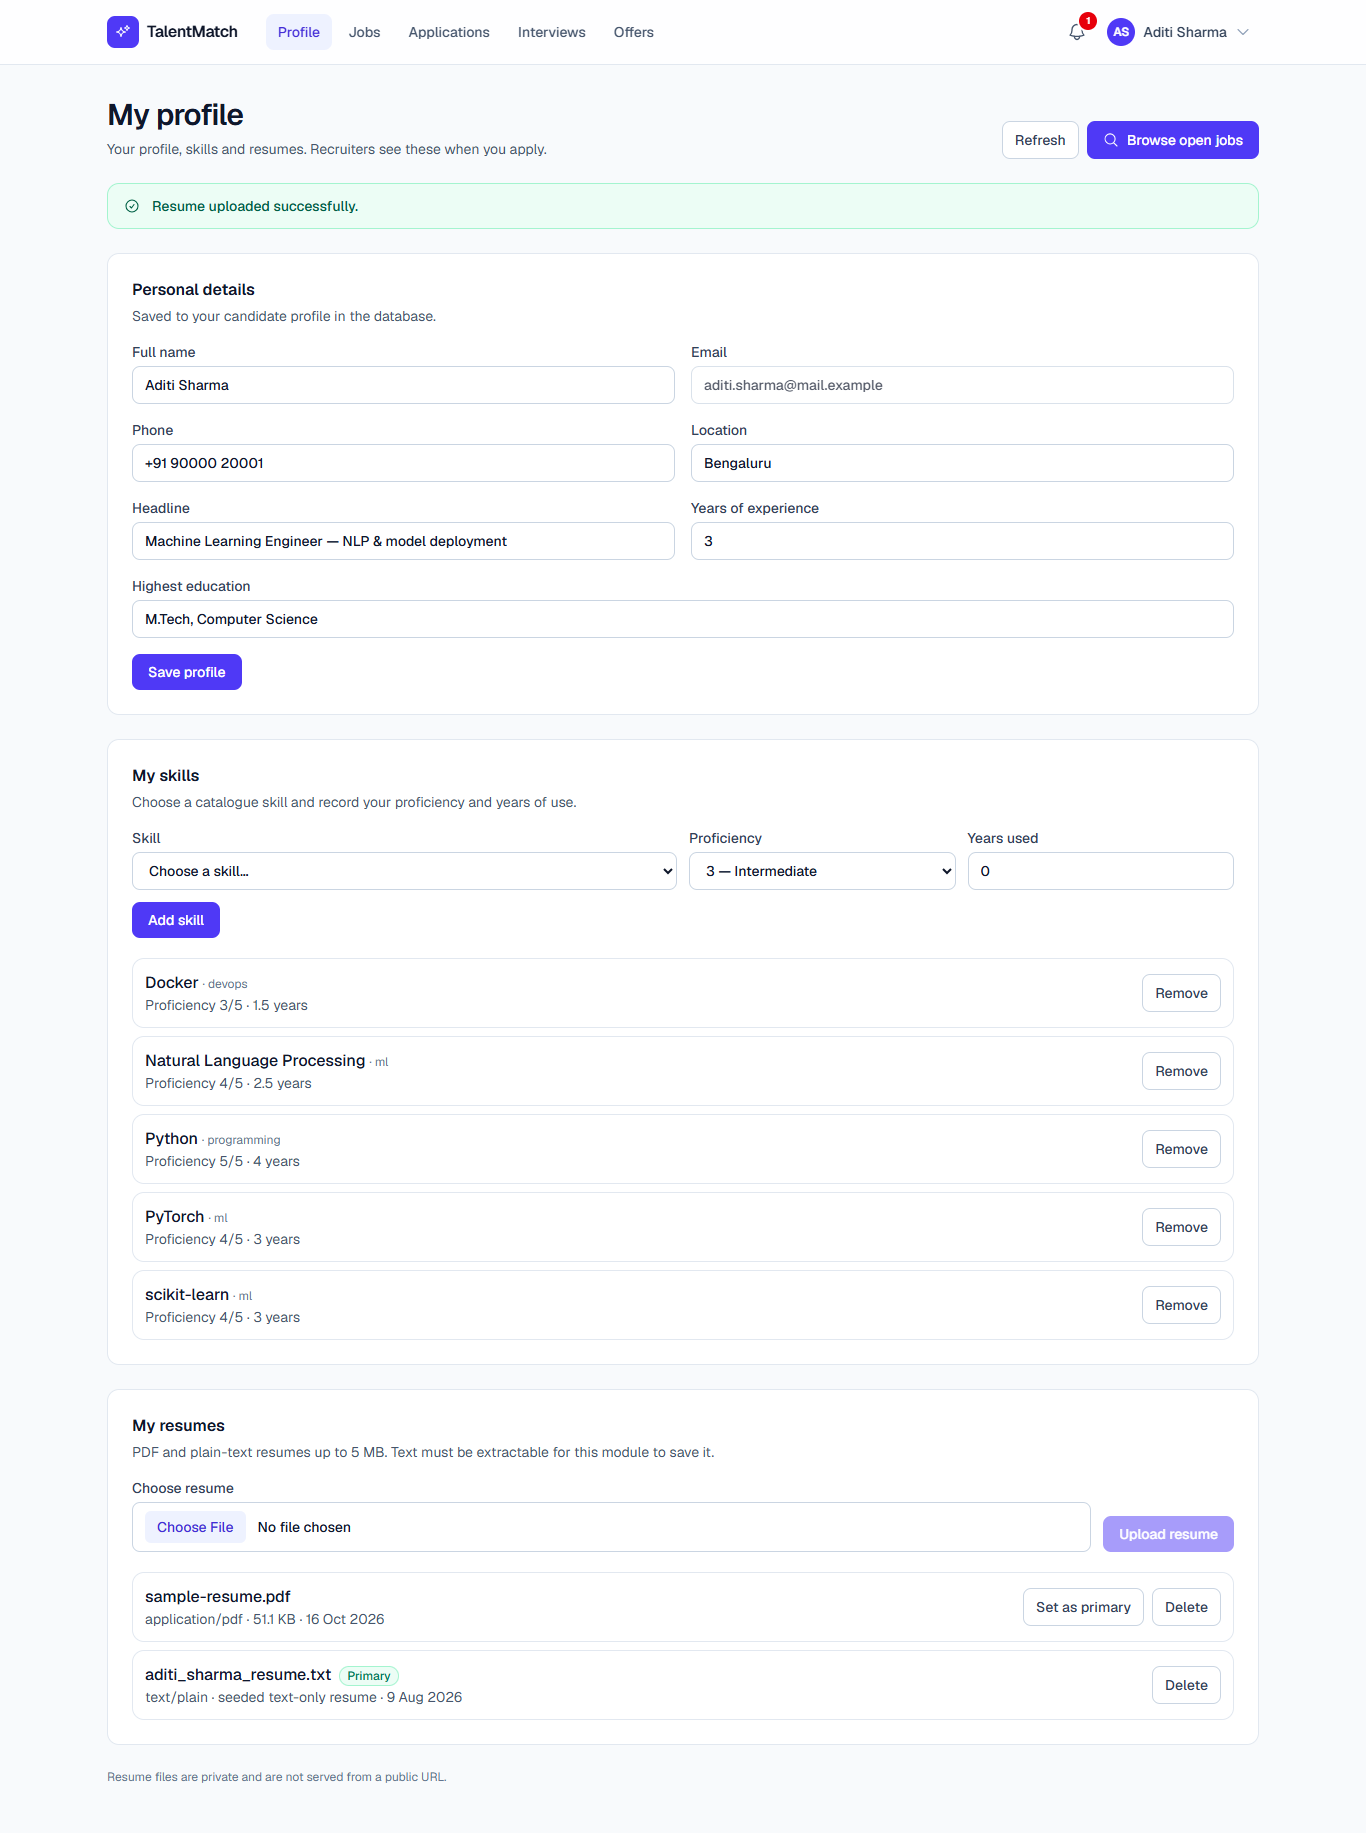
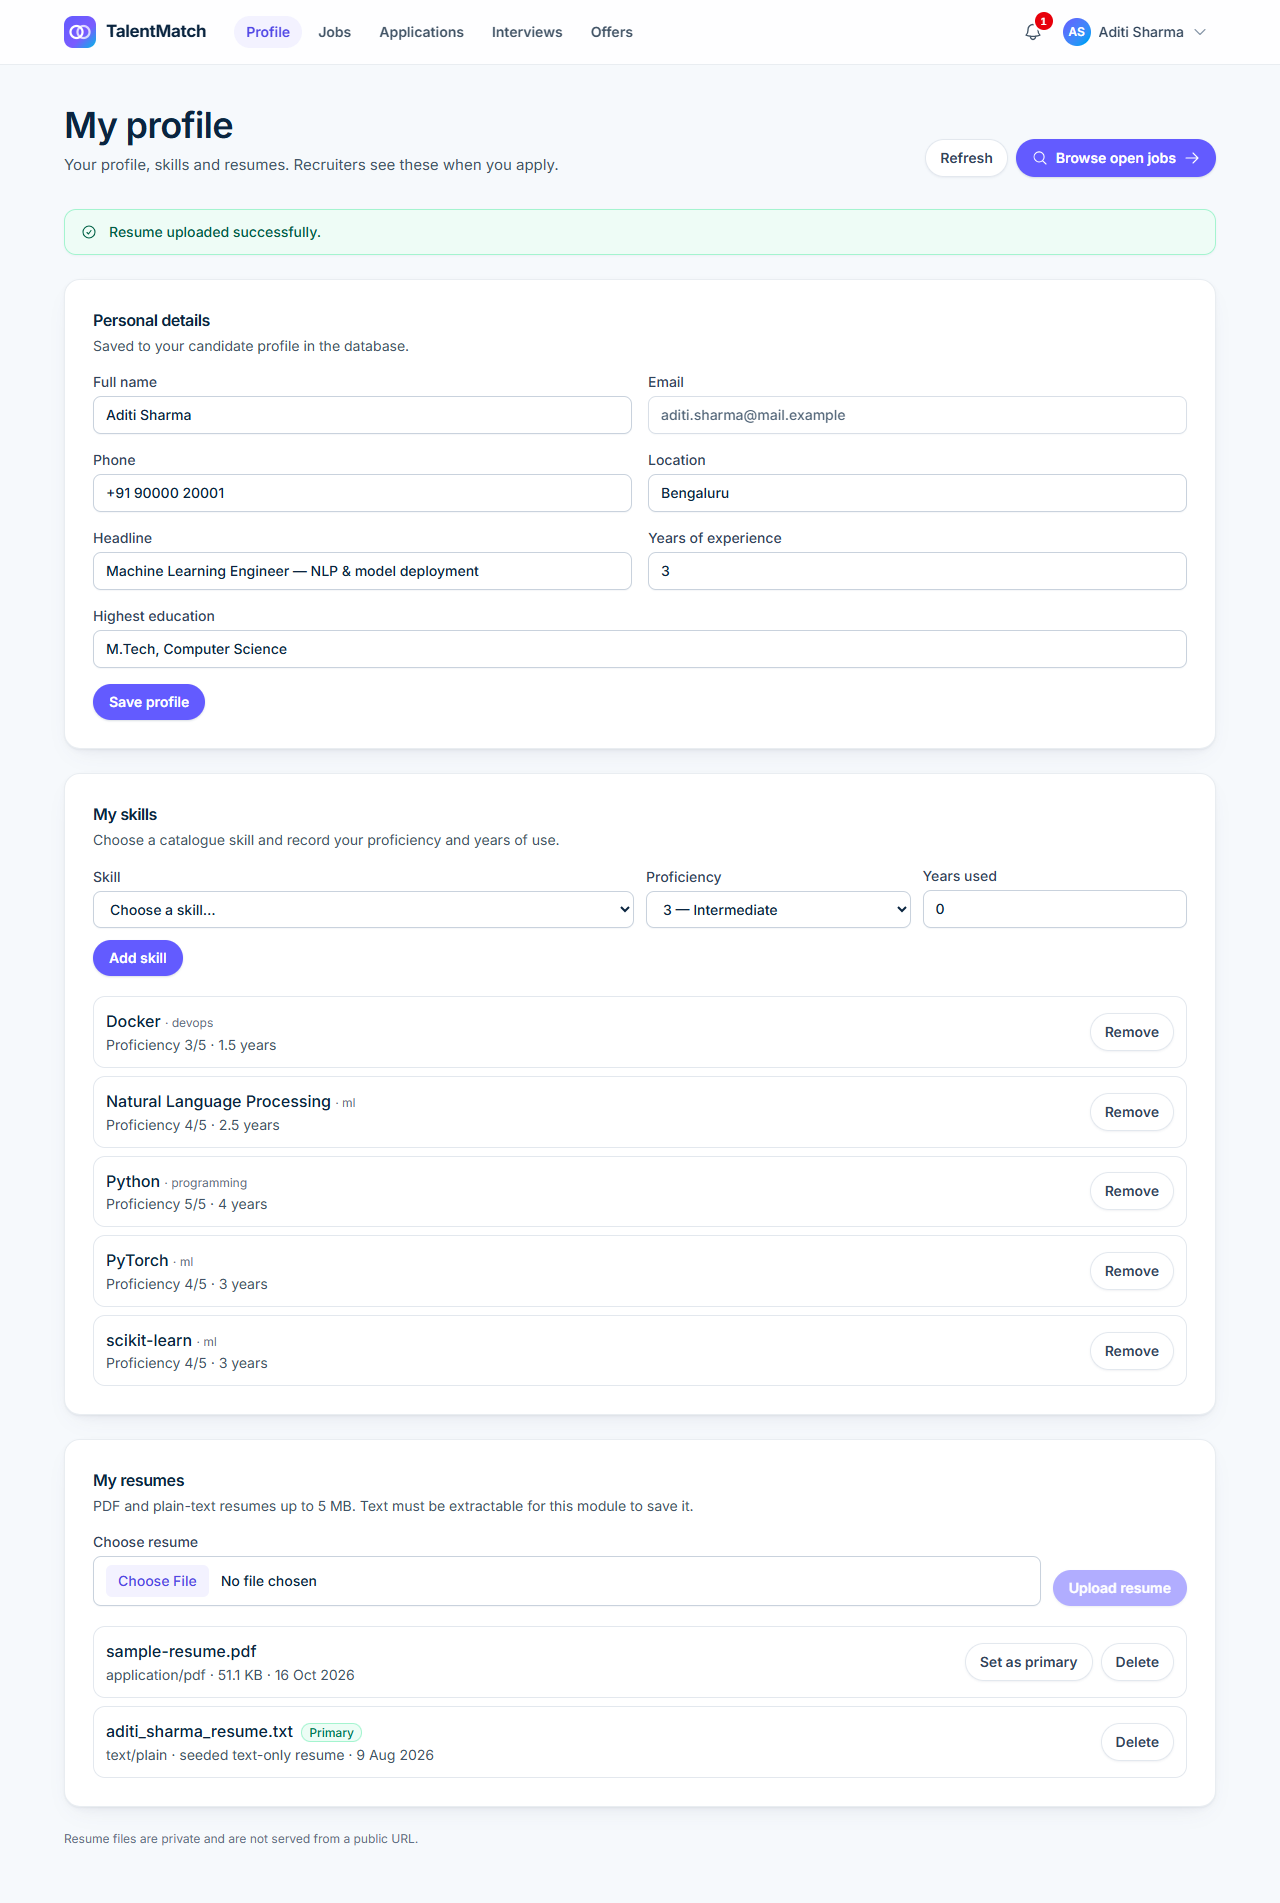
Retake the remaining screenshots in the new design
Every screenshot in docs/screenshots/final now shows the restyled UI,
taken from the production build on a fresh seed by replaying the same
flows (resume upload, apply, interview scheduling, invalid transition,
offer and acceptance, blocked company delete). The project report no
longer mentions old-style screenshots.

diff --git a/docs/project-report.md b/docs/project-report.md
@@ -524,8 +524,6 @@ Configuration comes only from environment variables (`DATABASE_URL`, `AUTH_JWT_S
 
 All screenshots are in [`docs/screenshots/final/`](screenshots/final/) and were taken from the final build with the seeded demo data.
 
-The UI was later restyled (off-white page, navy text, one #635BFF accent, Inter font, soft card shadows, angled gradient on the landing and sign-in pages). Screenshots 01, 06, 11, 25, 29, 30 and 31 to 34 show the new style; the others were taken before the restyle and show the same pages and data with the earlier colours.
-
 ### Landing page
 
 | | |
